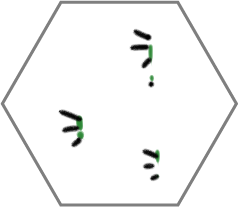
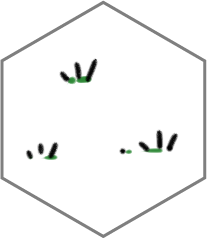
Hexcrawl : overlays définitivement pointy-top, plus de rotation, nettoyage des doublons
Le dernier export de Tristan est le bon (207×238, vérifié pixel par pixel : pointy-top natif,
comme les tuiles). Remplace les fichiers dans tuiles hexcrawl/Overlays/, supprime les copies
en doublon (racine du repo + dossier "Overlays 2/"). hexOverlayImageSVG rend désormais sans
rotation, séparé de hexFondImageSVG qui garde sa rotation 30° (fonds toujours flat-top, inchangés).

diff --git a/js/hexcrawl.js b/js/hexcrawl.js
@@ -457,17 +457,23 @@ function hexTileImageSVG(href, c, size){
   const x = (c.x - w/2).toFixed(1), y = (c.y - h/2).toFixed(1);
   return `<image href="${esc(href)}" x="${x}" y="${y}" width="${w.toFixed(1)}" height="${h.toFixed(1)}" class="hex-tile-img"></image>`;
 }
-/* Fond (5 images pleines) + overlay (27 images, contour dessiné, transparent autour) empilés sur
-   la boîte englobante de l'hexagone. `deg` est le paramètre au lieu d'une constante 30° fixe
-   (2026-08-17) : les FONDS sont le set flat-top d'origine (jamais retouché, 30° reste correct),
-   mais les OVERLAYS ont été réexportés par Tristan depuis un art déjà pointy-top — malheureusement
-   tourné à 90° par erreur pendant l'export (confirmé par Tristan + vérifié visuellement : "Tour"
-   devient une tourelle droite à +90°, à l'envers à -90°). Undo de cette erreur = +90°, pas 30°. */
-function hexFondOverlayImageSVG(href, c, size, cls, deg){
+/* Fond (5 images pleines, flat-top, jamais retouché) empilé sur la boîte englobante de
+   l'hexagone avec rotation 30° — voir FOND_LIST plus haut pour le pourquoi. */
+function hexFondImageSVG(href, c, size){
   const w = size*2, h = size*Math.sqrt(3);
   const x = (c.x - w/2).toFixed(1), y = (c.y - h/2).toFixed(1);
-  const rot = `rotate(${deg} ${c.x.toFixed(1)} ${c.y.toFixed(1)})`;
-  return `<image href="${esc(href)}" x="${x}" y="${y}" width="${w.toFixed(1)}" height="${h.toFixed(1)}" transform="${rot}" class="${cls}"></image>`;
+  const rot = `rotate(30 ${c.x.toFixed(1)} ${c.y.toFixed(1)})`;
+  return `<image href="${esc(href)}" x="${x}" y="${y}" width="${w.toFixed(1)}" height="${h.toFixed(1)}" transform="${rot}" class="hex-fond-img"></image>`;
+}
+/* Overlay (27 images, contour dessiné, transparent autour) — réexporté par Tristan en art
+   pointy-top natif (2026-08-17, vérifié : 207×238, même ratio que les tuiles), donc AUCUNE
+   rotation, comme hexTileImageSVG. Deux exports précédents ont dû être corrigés au fil de l'eau
+   (30° pour l'ancien set flat-top, puis 90° pour un export intermédiaire mal tourné) — celui-ci
+   est le bon, cf. conversation avec Tristan. */
+function hexOverlayImageSVG(href, c, size){
+  const w = size*Math.sqrt(3), h = size*2;
+  const x = (c.x - w/2).toFixed(1), y = (c.y - h/2).toFixed(1);
+  return `<image href="${esc(href)}" x="${x}" y="${y}" width="${w.toFixed(1)}" height="${h.toFixed(1)}" class="hex-overlay-img"></image>`;
 }
 function hexTerrainLayerSVG(h, c, size){
   const pts = hexCorners(c.x, c.y, size-1);
@@ -477,13 +483,13 @@ function hexTerrainLayerSVG(h, c, size){
   }
   if(h.fond || h.overlay){
     let out = `<polygon points="${pts}" fill="${HEX_NEUTRAL_FILL}"></polygon>`;
-    if(h.fond){ const f=FOND_LIST.find(x=>x.id===h.fond); if(f) out += hexFondOverlayImageSVG(f.file, c, size, "hex-fond-img", 30); }
+    if(h.fond){ const f=FOND_LIST.find(x=>x.id===h.fond); if(f) out += hexFondImageSVG(f.file, c, size); }
     /* h.overlay stocke le CHEMIN complet depuis peu (tuiles hexcrawl/Overlays/…) mais des cartes
        plus anciennes ont pu garder l'ancien format court (juste le nom de fichier, ex.
        "3-foundation_tundra.png") d'avant la réorganisation des dossiers (2026-08-17) — normalisé
        ici au lieu de migrer toutes les cartes existantes en base, plus sûr en cas d'oubli. */
     const overlayHref = h.overlay && !h.overlay.startsWith("tuiles hexcrawl/") ? "tuiles hexcrawl/Overlays/"+h.overlay : h.overlay;
-    if(overlayHref) out += hexFondOverlayImageSVG(overlayHref, c, size, "hex-overlay-img", 90);
+    if(overlayHref) out += hexOverlayImageSVG(overlayHref, c, size);
     return out;
   }
   const info = terrainInfo(h.hexType);
